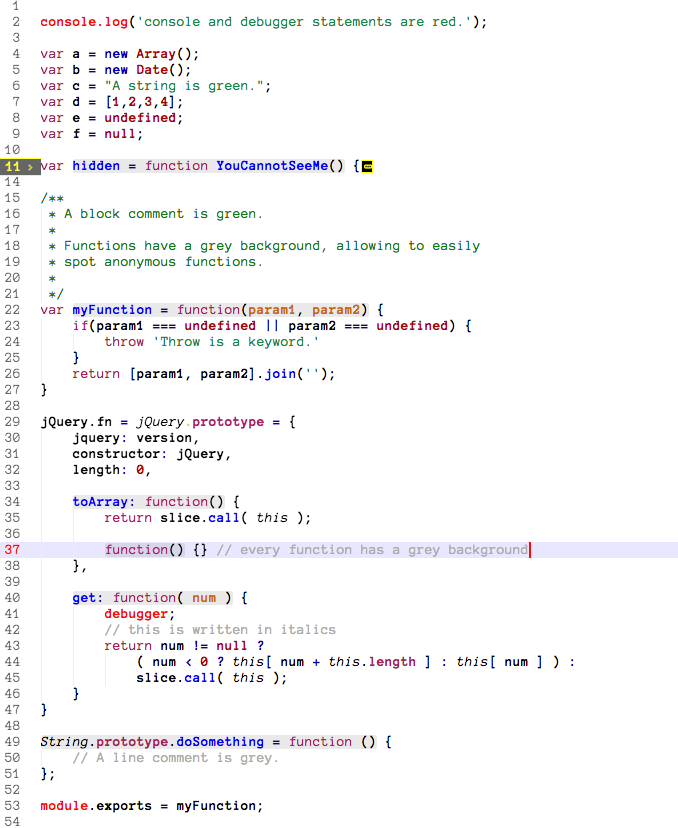
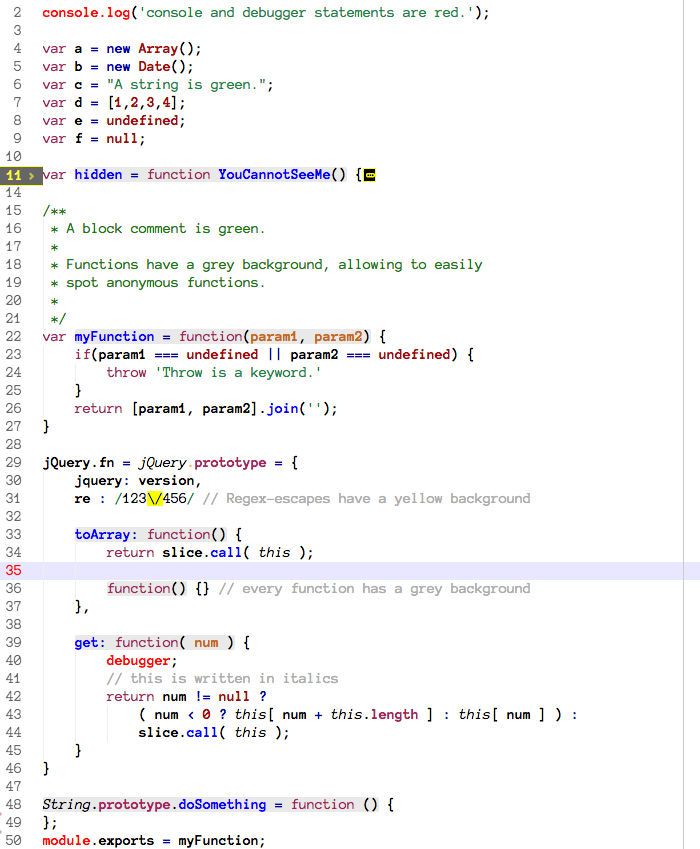
Update search

Changed region(s): [[0.0, 0.0, 0.7743, 1.0], [0.6504, 0.785, 0.8053, 0.8454]]

diff --git a/styles/base.less b/styles/base.less
@@ -63,25 +63,24 @@ atom-text-editor, :host {
 // atom-text-editor .search-results .marker .region,
 // :host .search-results .marker .region {
 //   background-color: transparent;
-//   border: 1px solid @syntax-result-marker-color;
+//   border: 1px solid red;
 // }
 //
 // atom-text-editor .search-results .marker.current-result .region,
 // :host .search-results .marker.current-result .region {
-//   border: 1px solid @syntax-result-marker-color-selected;
+//   border: 1px solid red;
 // }
 
 atom-text-editor::shadow .highlight.find-result .region {
-    border: 1px solid black;
+    border: 1px solid red;
     border-radius: 2px;
 
 }
 atom-text-editor::shadow .highlight.current-result .region,
 atom-text-editor::shadow .highlight.current-result ~ .highlight.selection .region {
   background-color: #FFE883;
-  border: 1px solid #FFE883;
+  border: 1px solid red;
   border-radius: 2px;
-  color:black !important;
 }
 
 .comment { // text of line comment, without the //

diff --git a/test.js b/test.js
@@ -28,8 +28,7 @@ var myFunction = function(param1, param2) {
 
 jQuery.fn = jQuery.prototype = {
 	jquery: version,
-	constructor: jQuery,
-	length: 0,
+    re : /123\/456/ // Regex-escapes have a yellow background
 
 	toArray: function() {
 		return slice.call( this );

diff --git a/README.md b/README.md
@@ -1,17 +1,25 @@
 # Stars and Stripes Theme
 
+####Install
+```
+apm install stars-and-stripes-theme-syntax
+```
+
+####Screenshots
 Screenshots show font [Anonymous Pro](http://www.marksimonson.com/fonts/view/anonymous-pro), _font size 14_
 and _line height 1.2_
 
 #####Javascript
-* All functions have a grey background, which helps spotting anonymous functions.
+* All functions have a grey background, which helps spotting anonymous functions while scrolling through code fast.
 * Code folding is yellow on grey, to make it stand out.
-* Block comments are green, line comments grey.
-* Constants are dark red.
+* Block comments are green (important), line comments grey (less important).
+* Constants are dark red (undefined, null, numbers, ...).
 * Console and debugger statements are red, allowing to spot and remove them easily.
 * Line number is red.
-* Search results in borders for hits, and marks current.
+* Search results in borders arounds hits, and sets current hit background.
 * Cursor is red and has a width of 2px.
+* _this_ in italics.
+* Regex-escapes have a yellow background.
 
 ![Javascript](https://github.com/xErik/Stars-and-Stripes-Theme-Syntax-for-Atom/raw/master/images/javascript.png)
 #####CSS
@@ -24,4 +32,6 @@ and _line height 1.2_
 ![HTML](https://github.com/xErik/Stars-and-Stripes-Theme-Syntax-for-Atom/raw/master/images/html.png)
 
 #####TODO
-There is plenty of room for improvement, some Atom CSS selectors are probably not used correctly.
+* There is plenty of room for improvement, some Atom CSS selectors are probably not used correctly.
+
+Although I consider this theme a draft, I use it for daily work.

diff --git a/LICENSE.md b/LICENSE.md
@@ -1,4 +1,4 @@
-Copyright (c) 2015 
+Copyright (c) 2015 xErik
 
 Permission is hereby granted, free of charge, to any person obtaining
 a copy of this software and associated documentation files (the
